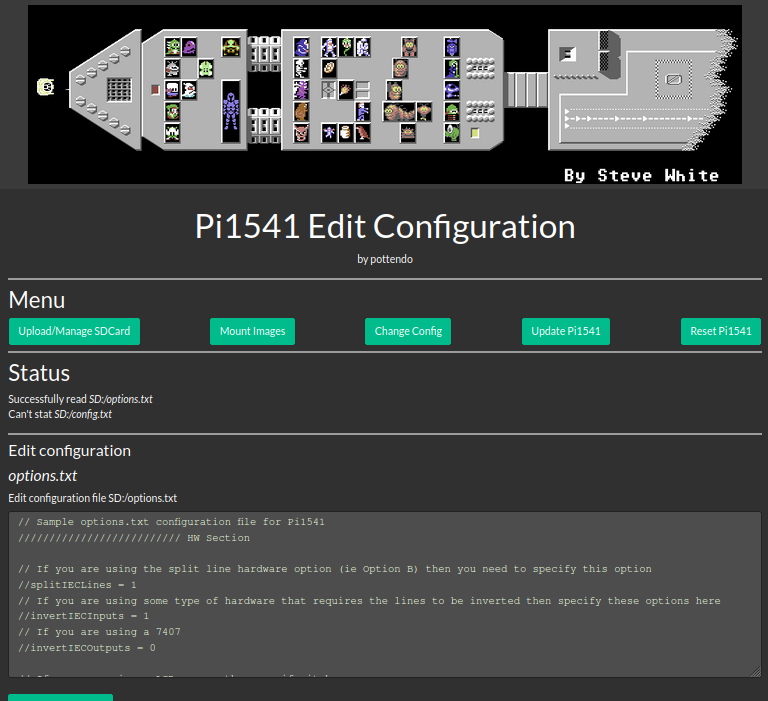
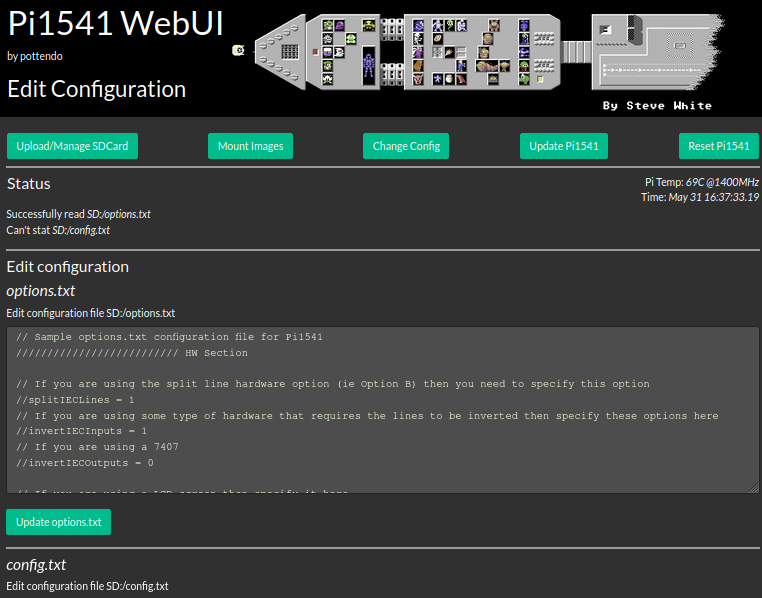
Updated UI, docs

diff --git a/src/webcontent/edit-config.html b/src/webcontent/edit-config.html
@@ -57,9 +57,9 @@
 		<div class="container" style="background-color: #000000; text-align: center; padding-bottom: 8px; padding-top: 8px;">
 			<table>
 				<td>
-					<h1 style="text-align:left">Pi1541</h1>
+					<h1 style="text-align:left">Pi1541 WebUI</h1>
 					<p style="text-align:left">by pottendo</p>
-					<h3 style="text-align:left">Upload/Manage SDCard</h3>
+					<h3 style="text-align:left">Edit Configuration</h3>
 				</td>
 				<td>
 					<a href="index.html">

diff --git a/src/webcontent/update.html b/src/webcontent/update.html
@@ -57,9 +57,9 @@
 		<div class="container" style="background-color: #000000; text-align: center; padding-bottom: 8px; padding-top: 8px;">
 			<table>
 				<td>
-					<h1 style="text-align:left">Pi1541</h1>
+					<h1 style="text-align:left">Pi1541 WebUI</h1>
 					<p style="text-align:left">by pottendo</p>
-					<h3 style="text-align:left">Upload/Manage SDCard</h3>
+					<h3 style="text-align:left">Update Pi1541</h3>
 				</td>
 				<td>
 					<a href="index.html">

diff --git a/src/webcontent/status.html b/src/webcontent/status.html
@@ -57,9 +57,9 @@
 		<div class="container" style="background-color: #000000; text-align: center; padding-bottom: 8px; padding-top: 8px;">
 			<table>
 				<td>
-					<h1 style="text-align:left">Pi1541</h1>
+					<h1 style="text-align:left">Pi1541 WebUI</h1>
 					<p style="text-align:left">by pottendo</p>
-					<h3 style="text-align:left">Upload/Manage SDCard</h3>
+					<h3 style="text-align:left">Status</h3>
 				</td>
 				<td>
 					<a href="index.html">

diff --git a/src/webcontent/mount-imgs.html b/src/webcontent/mount-imgs.html
@@ -57,9 +57,9 @@
 		<div class="container" style="background-color: #000000; text-align: center; padding-bottom: 8px; padding-top: 8px;">
 			<table>
 				<td>
-					<h1 style="text-align:left">Pi1541</h1>
+					<h1 style="text-align:left">Pi1541 WebUI</h1>
 					<p style="text-align:left">by pottendo</p>
-					<h3 style="text-align:left">Upload/Manage SDCard</h3>
+					<h3 style="text-align:left">Mount</h3>
 				</td>
 				<td>
 					<a href="index.html">

diff --git a/src/webcontent/index.html b/src/webcontent/index.html
@@ -57,7 +57,7 @@
 		<div class="container" style="background-color: #000000; text-align: center; padding-bottom: 8px; padding-top: 8px;">
 			<table>
 				<td>
-					<h1 style="text-align:left">Pi1541</h1>
+					<h1 style="text-align:left">Pi1541 WebUI</h1>
 					<p style="text-align:left">by pottendo</p>
 					<h3 style="text-align:left">Upload/Manage SDCard</h3>
 				</td>

diff --git a/src/webserver.cpp b/src/webserver.cpp
@@ -606,19 +606,19 @@ static FRESULT f_unlink_full(string path, string &msg)
 		if (res != FR_OK)
 		{
 			DEBUG_LOG("%s: failed to unlink '%s'", __FUNCTION__, npath.c_str());
-			msg += (string("failed to unlink <i>") + npath + "</i><br />");
+			msg += (string("Failed to delete <i>") + npath + "</i><br />");
 		}
 		else
 		{
 			DEBUG_LOG("%s: successfully unlinked '%s'", __FUNCTION__, npath.c_str());
-			msg += (string("successfully unlinked <i>") + npath + "</i><br />");
+			msg += (string("Deleted <i>") + npath + "</i><br />");
 		}			
 	}
 	if (res == FR_OK)
 	{
-	out:		
 		DEBUG_LOG("%s: unlink '%s'", __FUNCTION__, path.c_str());
-		msg += (string("successfully unlinked <i>") + npath + "</i><br />");
+		msg += (string("Deleted <i>") + npath + "</i><br />");
+	out:
 		res = f_unlink(path.c_str());
 	}
 	f_closedir(&dir);
@@ -759,7 +759,7 @@ THTTPStatus CWebServer::GetContent (const char  *pPath,
 			if ((ret = f_unlink_full(fullndir, msg)) != FR_OK)
 				snprintf(msg_str, 1023,"Failed to delete <i>%s</i> (%d)", fullndir.c_str(), ret);
 			else
-				snprintf(msg_str, 1023,"Successfully deleted <i>%s</i>", fullndir.c_str());
+				snprintf(msg_str, 1023,"Deleted <i>%s</i>", fullndir.c_str());
 			msg += msg_str;
 		}
 		if (fops == "[NEWDISK]")

diff --git a/README.md b/README.md
@@ -76,6 +76,8 @@ _Note_: not all error cases of e.g. wrongly supplied paths could be handled, so 
 
 Note: checking the <i>Automount-image</i> checkbox, uploads and overrides the default automount image automatically inserts it in the caddy. This allows an efficient development workflow, IMHO.
 
+When uploading directories, the browser may ask if you're sure. You still need to click the `Upload Directory` button to really upload!
+
 ![](docs/mount.png)
 <br />
 
@@ -309,7 +311,7 @@ network={
     key_mgmt=WPA-PSK
 }
 ```
-## Building the original verision
+## Building the original version
 
 One can build the Version 1.24 (+some minor fixes: LED & Buzzer work, build/works with gcc > 10.x).
 
@@ -327,7 +329,7 @@ One can build the Version 1.24 (+some minor fixes: LED & Buzzer work, build/work
 # if you switch from legacy build to circle build 'make clean' is mandatory
 ```
 
-Copy the resulting `kernel.img` to your SDCard and adjust the appropriate section _[pi3]_ to load this image by uncommenting the lines
+Copy the resulting `kernel.img` to your SDCard and adjust the appropriate section (e.g. _[pi3]_) to load this image by uncommenting the lines
 ```
 kernel_address=0x1f00000
 kernel=kernel.img
